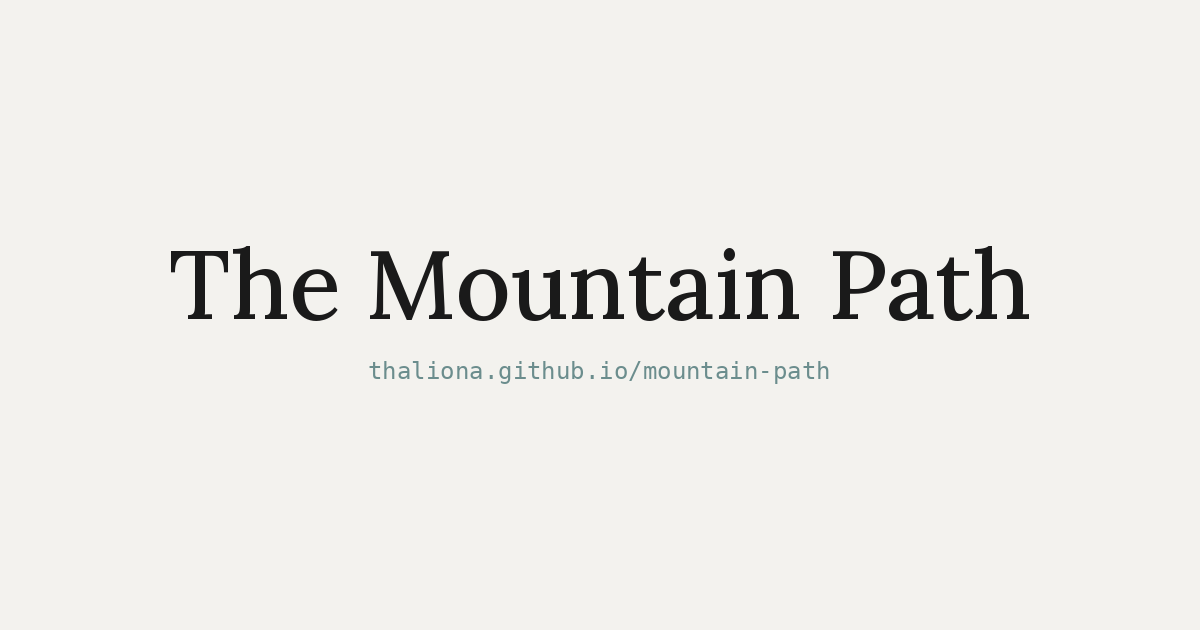
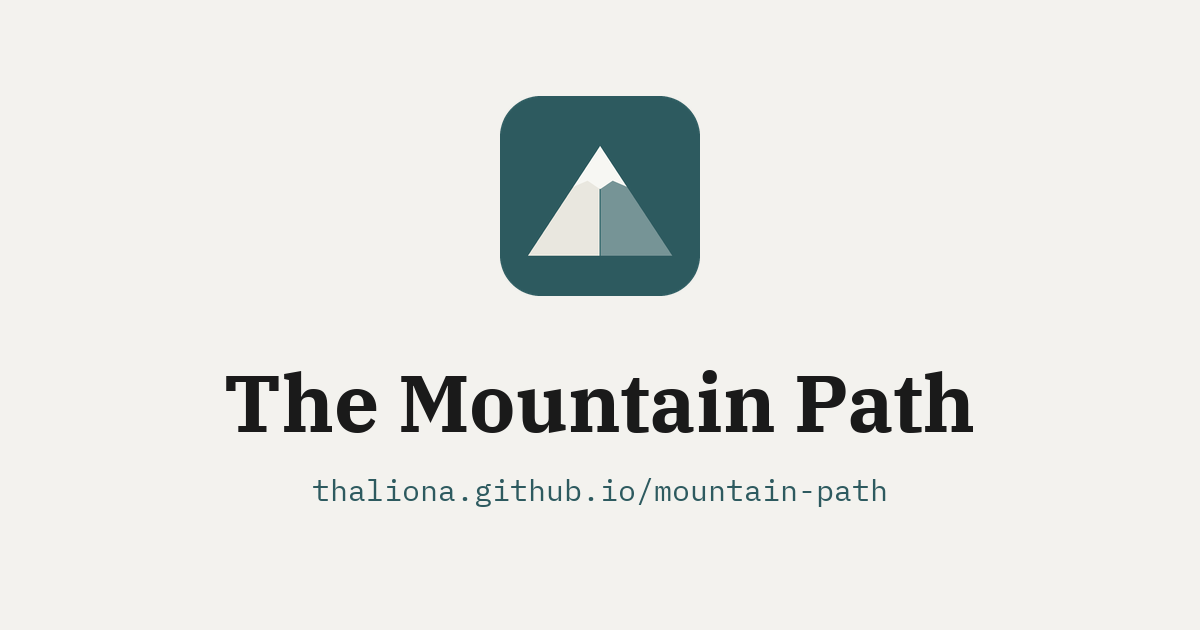
Kebab-case note filenames and refresh OG image
- Rename files with spaces/commas to kebab-case for clean URLs:
  "thinking, fast and slow", "cognitive biases", "availability bias"
- Add aliases frontmatter so the old slugs still redirect
- Update inbound wikilinks to the new basenames
- Regenerate og-image.png with the new faceted-mountain branding

Claude-Session: https://claude.ai/code/session_019gA2htdxkAZvCmKLh6tvcW

diff --git a/content/musings/availability-bias.md b/content/musings/availability-bias.md
@@ -1,8 +1,10 @@
 ---
 title: Availability bias
+aliases:
+  - "availability bias"
 ---
 
-Part of the various [[cognitive biases|cognitive biases]]. 
+Part of the various [[cognitive-biases|cognitive biases]]. 
 When asked to make a judgement of frequency or probability of an event, humans substitute this with an easier question of "how easily do instances of this kind of event come to mind?". 
 
 Potentially helpful during evolutionary times where better-remembered events are the ones more frequently encountered, unhelpful now because representation in the news (and therefore, memory) is not directly tied to frequency. 

diff --git a/content/book-club/rationality.md b/content/book-club/rationality.md
@@ -10,7 +10,7 @@ tags:
   - rationality
 ---
 
-Audiobook. Talks about [[cognitive biases|cognitive biases]]. 
+Audiobook. Talks about [[cognitive-biases|cognitive biases]]. 
 
 - Weirdly, people's degree of rationality does not only depend on the type of problem at hand, but also the formulation/content of the problem. It is not just formal logic that matters. For example, people are better able to solve problems if they involve fairness/cheating or danger (presumably, because these are [[Evolution|evolutionarily]] important objectives to keep in mind)
 - [[Conjunction fallacy]]

diff --git a/content/musings/cognitive-biases.md b/content/musings/cognitive-biases.md
@@ -1,12 +1,14 @@
 ---
 title: Cognitive biases
+aliases:
+  - "cognitive biases"
 ---
 
 
-A field pioneered by Daniel Kahneman and Amos Tversky. Especially in the book [[thinking, fast and slow|Thinking, Fast and Slow]]. 
+A field pioneered by Daniel Kahneman and Amos Tversky. Especially in the book [[thinking-fast-and-slow|Thinking, Fast and Slow]]. 
 
 Some of the most common/best known ones:
-- [[availability bias|Availability bias]]
+- [[availability-bias|Availability bias]]
 - [[Anchoring]]
 - [[Halo effect]]
 - [[Sunk-cost fallacy]]

diff --git a/content/book-club/thinking-fast-and-slow.md b/content/book-club/thinking-fast-and-slow.md
@@ -1,6 +1,8 @@
 ---
 title: Thinking, Fast and Slow
 author: Daniel Kahneman
+aliases:
+  - "thinking, fast and slow"
 ---
 (this is just a stub for now)
 
@@ -11,7 +13,7 @@ Two systems, system 1 and system 2. Anthropomorphised for ease of understanding.
 - System 1:
 	- Quick
 	- Effortless
-	- Prone to [[Cognitive biases|biases]] and fallacies. 
+	- Prone to [[cognitive-biases|biases]] and fallacies. 
 	- WYSIATI (what you see is all there is)
 - System 2:
 	- Slow
